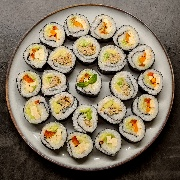
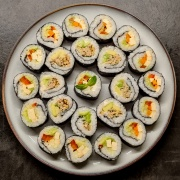
bebab

diff --git a/preprocces_image.py b/preprocces_image.py
@@ -99,7 +99,7 @@ def cut_image(src: np.ndarray, w: int, h: int, what: str) -> np.ndarray:
     cv2.imshow(f"selection of {what}", img_selection)
 
     img_cut = src[roi[1]:roi[1] + roi[3], roi[0]:roi[0] + roi[2]]
-    img_out = cv2.resize(img_cut, (dst_w, dst_h))
+    img_out = cv2.resize(img_cut, (dst_w, dst_h), interpolation=cv2.INTER_AREA)
 
     return img_out
 

diff --git a/docs/recipes/kebab/index.md b/docs/recipes/kebab/index.md
@@ -1,0 +1,31 @@
+---
+tags:
+  - tofu
+---
+
+# Kebab
+
+![image](image.jpg)
+
+| :material-clock-outline: Time | :fork_and_knife: Servings |
+|-------------------------------|---------------------------|
+| 30 min                        | 4 portions                |
+
+--- 
+
+## Ingredients
+
+- _400g_ smoked tofu
+- TODO ...
+
+--- 
+
+## Instruction
+
+1. TODO
+
+---
+
+## Inspiration
+
+- [Instagram](https://www.instagram.com/reel/CY9s1vBoCJ5/?utm_source=ig_web_copy_link&igsh=MzRlODBiNWFlZA==)

diff --git a/docs/index.md b/docs/index.md
@@ -14,3 +14,4 @@
 [![](recipes/chocolate_mouse/thumbnail.jpg "Chocolate Mouse")](recipes/chocolate_mouse/index.md)
 [![](recipes/puffy_zucchini_cake/thumbnail.jpg "Puffy Zucchini Cake")](recipes/puffy_zucchini_cake/index.md)
 [![](recipes/sundried_tomato_and_brocolli_penne_pasta/thumbnail.jpg "Sundried Tomato and Brocolli Pasta")](recipes/sundried_tomato_and_brocolli_penne_pasta/index.md)
+[![](recipes/kebab/thumbnail.jpg "Kebab")](recipes/kebab/index.md)
